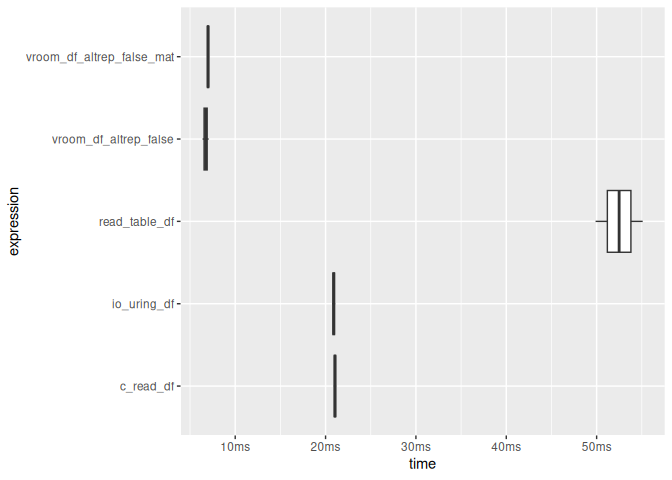
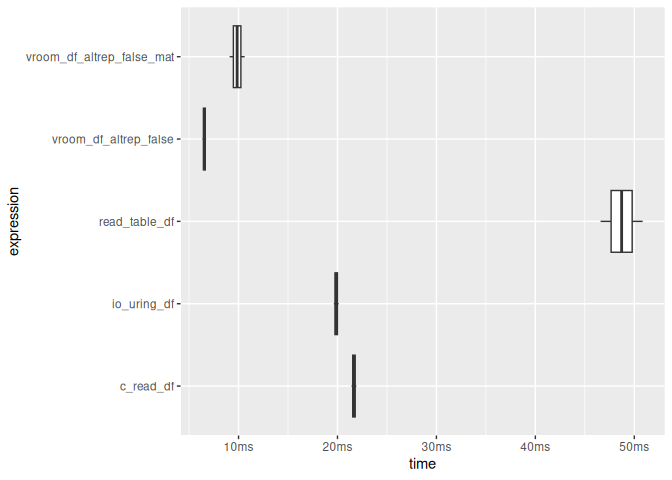
Deploying to gh-pages from @ sounkou-bioinfo/Rtinycc@1fb0428caab81305f7df1c9e4f8c3dab067b316e 🚀

diff --git a/index.html b/index.html
@@ -154,7 +154,7 @@
 <span><span class="fu"><a href="reference/tcc_read_bytes.html">tcc_read_bytes</a></span><span class="op">(</span><span class="va">ptr</span>, <span class="fl">5</span><span class="op">)</span></span>
 <span><span class="co">#&gt; [1] 68 65 6c 6c 6f</span></span>
 <span><span class="fu"><a href="reference/tcc_ptr_addr.html">tcc_ptr_addr</a></span><span class="op">(</span><span class="va">ptr</span>, hex <span class="op">=</span> <span class="cn">TRUE</span><span class="op">)</span></span>
-<span><span class="co">#&gt; [1] "0x5a2b55beb9e0"</span></span>
+<span><span class="co">#&gt; [1] "0x602d09972630"</span></span>
 <span><span class="fu"><a href="reference/tcc_ptr_is_null.html">tcc_ptr_is_null</a></span><span class="op">(</span><span class="va">ptr</span><span class="op">)</span></span>
 <span><span class="co">#&gt; [1] FALSE</span></span>
 <span><span class="fu"><a href="reference/tcc_free.html">tcc_free</a></span><span class="op">(</span><span class="va">ptr</span><span class="op">)</span></span>
@@ -175,11 +175,11 @@
 <code class="sourceCode R"><span><span class="va">ptr_ref</span> <span class="op">&lt;-</span> <span class="fu"><a href="reference/tcc_malloc.html">tcc_malloc</a></span><span class="op">(</span><span class="va">.Machine</span><span class="op">$</span><span class="va">sizeof.pointer</span> <span class="op"><a href="https://rdrr.io/r/base/Control.html" class="external-link">%||%</a></span> <span class="fl">8L</span><span class="op">)</span></span>
 <span><span class="va">target</span> <span class="op">&lt;-</span> <span class="fu"><a href="reference/tcc_malloc.html">tcc_malloc</a></span><span class="op">(</span><span class="fl">8</span><span class="op">)</span></span>
 <span><span class="fu"><a href="reference/tcc_ptr_set.html">tcc_ptr_set</a></span><span class="op">(</span><span class="va">ptr_ref</span>, <span class="va">target</span><span class="op">)</span></span>
-<span><span class="co">#&gt; &lt;pointer: 0x5a2b564e6ae0&gt;</span></span>
+<span><span class="co">#&gt; &lt;pointer: 0x602d0af9dcf0&gt;</span></span>
 <span><span class="fu"><a href="reference/tcc_data_ptr.html">tcc_data_ptr</a></span><span class="op">(</span><span class="va">ptr_ref</span><span class="op">)</span></span>
-<span><span class="co">#&gt; &lt;pointer: 0x5a2b56576070&gt;</span></span>
+<span><span class="co">#&gt; &lt;pointer: 0x602d0b45a720&gt;</span></span>
 <span><span class="fu"><a href="reference/tcc_ptr_set.html">tcc_ptr_set</a></span><span class="op">(</span><span class="va">ptr_ref</span>, <span class="fu"><a href="reference/tcc_null_ptr.html">tcc_null_ptr</a></span><span class="op">(</span><span class="op">)</span><span class="op">)</span></span>
-<span><span class="co">#&gt; &lt;pointer: 0x5a2b564e6ae0&gt;</span></span>
+<span><span class="co">#&gt; &lt;pointer: 0x602d0af9dcf0&gt;</span></span>
 <span><span class="fu"><a href="reference/tcc_free.html">tcc_free</a></span><span class="op">(</span><span class="va">target</span><span class="op">)</span></span>
 <span><span class="co">#&gt; NULL</span></span>
 <span><span class="fu"><a href="reference/tcc_free.html">tcc_free</a></span><span class="op">(</span><span class="va">ptr_ref</span><span class="op">)</span></span>
@@ -229,8 +229,8 @@
 <span><span class="co">#&gt; # A tibble: 2 × 6</span></span>
 <span><span class="co">#&gt;   expression      min   median `itr/sec` mem_alloc `gc/sec`</span></span>
 <span><span class="co">#&gt;   &lt;bch:expr&gt; &lt;bch:tm&gt; &lt;bch:tm&gt;     &lt;dbl&gt; &lt;bch:byt&gt;    &lt;dbl&gt;</span></span>
-<span><span class="co">#&gt; 1 Rtinycc      24.1ms   25.2ms      39.3   53.98KB     43.2</span></span>
-<span><span class="co">#&gt; 2 Rbuiltin    556.8µs  604.9µs    1566.     9.05KB     28.0</span></span>
+<span><span class="co">#&gt; 1 Rtinycc      24.1ms   26.2ms      29.6   53.98KB     31.5</span></span>
+<span><span class="co">#&gt; 2 Rbuiltin    548.1µs  588.8µs    1589.     9.05KB     29.9</span></span>
 <span></span>
 <span><span class="co"># For performance-sensitive code, move the loop into C and operate on arrays</span></span>
 <span><span class="co"># (one call over many elements instead of many scalar calls).</span></span>
@@ -261,8 +261,8 @@
 <span><span class="co">#&gt; # A tibble: 2 × 6</span></span>
 <span><span class="co">#&gt;   expression        min   median `itr/sec` mem_alloc `gc/sec`</span></span>
 <span><span class="co">#&gt;   &lt;bch:expr&gt;   &lt;bch:tm&gt; &lt;bch:tm&gt;     &lt;dbl&gt; &lt;bch:byt&gt;    &lt;dbl&gt;</span></span>
-<span><span class="co">#&gt; 1 Rtinycc_vec     178µs    272µs     3690.     391KB     26.0</span></span>
-<span><span class="co">#&gt; 2 Rbuiltin_vec    180µs    343µs     2927.     781KB     45.9</span></span></code></pre></div>
+<span><span class="co">#&gt; 1 Rtinycc_vec     176µs    255µs     3911.     391KB     28.1</span></span>
+<span><span class="co">#&gt; 2 Rbuiltin_vec    166µs    170µs     5791.     781KB     93.5</span></span></code></pre></div>
 </div>
 <div class="section level3">
 <h3 id="variadic-calls-eg-rprintf-style">Variadic calls (e.g. <code>Rprintf</code> style)<a class="anchor" aria-label="anchor" href="#variadic-calls-eg-rprintf-style"></a>
@@ -412,7 +412,7 @@
 <span></span>
 <span><span class="va">x</span> <span class="op">&lt;-</span> <span class="fu"><a href="https://rdrr.io/r/base/integer.html" class="external-link">as.integer</a></span><span class="op">(</span><span class="fl">1</span><span class="op">:</span><span class="fl">100</span><span class="op">)</span> <span class="co"># to avoid ALTREP</span></span>
 <span><span class="fu"><a href="https://rdrr.io/r/base/Internal.html" class="external-link">.Internal</a></span><span class="op">(</span><span class="fu">inspect</span><span class="op">(</span><span class="va">x</span><span class="op">)</span><span class="op">)</span></span>
-<span><span class="co">#&gt; @5a2b599aacd0 13 INTSXP g0c0 [REF(65535)]  1 : 100 (compact)</span></span>
+<span><span class="co">#&gt; @602d0dc280d8 13 INTSXP g0c0 [REF(65535)]  1 : 100 (compact)</span></span>
 <span><span class="va">ffi</span><span class="op">$</span><span class="fu">sum_array</span><span class="op">(</span><span class="va">x</span>, <span class="fu"><a href="https://rdrr.io/r/base/length.html" class="external-link">length</a></span><span class="op">(</span><span class="va">x</span><span class="op">)</span><span class="op">)</span></span>
 <span><span class="co">#&gt; [1] 5050</span></span>
 <span></span>
@@ -428,7 +428,7 @@
 <span><span class="co">#&gt; [1] 11</span></span>
 <span></span>
 <span><span class="fu"><a href="https://rdrr.io/r/base/Internal.html" class="external-link">.Internal</a></span><span class="op">(</span><span class="fu">inspect</span><span class="op">(</span><span class="va">x</span><span class="op">)</span><span class="op">)</span></span>
-<span><span class="co">#&gt; @5a2b599aacd0 13 INTSXP g0c0 [REF(65535)]  11 : 110 (expanded)</span></span></code></pre></div>
+<span><span class="co">#&gt; @602d0dc280d8 13 INTSXP g0c0 [REF(65535)]  11 : 110 (expanded)</span></span></code></pre></div>
 </div>
 </div>
 <div class="section level2">
@@ -455,15 +455,15 @@
 <span></span>
 <span><span class="va">p1</span> <span class="op">&lt;-</span> <span class="va">ffi</span><span class="op">$</span><span class="fu">struct_point_new</span><span class="op">(</span><span class="op">)</span></span>
 <span><span class="va">ffi</span><span class="op">$</span><span class="fu">struct_point_set_x</span><span class="op">(</span><span class="va">p1</span>, <span class="fl">0.0</span><span class="op">)</span></span>
-<span><span class="co">#&gt; &lt;pointer: 0x5a2b55a26740&gt;</span></span>
+<span><span class="co">#&gt; &lt;pointer: 0x602d0b9b7cb0&gt;</span></span>
 <span><span class="va">ffi</span><span class="op">$</span><span class="fu">struct_point_set_y</span><span class="op">(</span><span class="va">p1</span>, <span class="fl">0.0</span><span class="op">)</span></span>
-<span><span class="co">#&gt; &lt;pointer: 0x5a2b55a26740&gt;</span></span>
+<span><span class="co">#&gt; &lt;pointer: 0x602d0b9b7cb0&gt;</span></span>
 <span></span>
 <span><span class="va">p2</span> <span class="op">&lt;-</span> <span class="va">ffi</span><span class="op">$</span><span class="fu">struct_point_new</span><span class="op">(</span><span class="op">)</span></span>
 <span><span class="va">ffi</span><span class="op">$</span><span class="fu">struct_point_set_x</span><span class="op">(</span><span class="va">p2</span>, <span class="fl">3.0</span><span class="op">)</span></span>
-<span><span class="co">#&gt; &lt;pointer: 0x5a2b5a4d1200&gt;</span></span>
+<span><span class="co">#&gt; &lt;pointer: 0x602d0d679410&gt;</span></span>
 <span><span class="va">ffi</span><span class="op">$</span><span class="fu">struct_point_set_y</span><span class="op">(</span><span class="va">p2</span>, <span class="fl">4.0</span><span class="op">)</span></span>
-<span><span class="co">#&gt; &lt;pointer: 0x5a2b5a4d1200&gt;</span></span>
+<span><span class="co">#&gt; &lt;pointer: 0x602d0d679410&gt;</span></span>
 <span></span>
 <span><span class="va">ffi</span><span class="op">$</span><span class="fu">distance</span><span class="op">(</span><span class="va">p1</span>, <span class="va">p2</span><span class="op">)</span></span>
 <span><span class="co">#&gt; [1] 5</span></span>
@@ -505,9 +505,9 @@
 <span></span>
 <span><span class="va">s</span> <span class="op">&lt;-</span> <span class="va">ffi</span><span class="op">$</span><span class="fu">struct_flags_new</span><span class="op">(</span><span class="op">)</span></span>
 <span><span class="va">ffi</span><span class="op">$</span><span class="fu">struct_flags_set_active</span><span class="op">(</span><span class="va">s</span>, <span class="fl">1L</span><span class="op">)</span></span>
-<span><span class="co">#&gt; &lt;pointer: 0x5a2b58739ed0&gt;</span></span>
+<span><span class="co">#&gt; &lt;pointer: 0x602d0df2a8c0&gt;</span></span>
 <span><span class="va">ffi</span><span class="op">$</span><span class="fu">struct_flags_set_level</span><span class="op">(</span><span class="va">s</span>, <span class="fl">9L</span><span class="op">)</span></span>
-<span><span class="co">#&gt; &lt;pointer: 0x5a2b58739ed0&gt;</span></span>
+<span><span class="co">#&gt; &lt;pointer: 0x602d0df2a8c0&gt;</span></span>
 <span><span class="va">ffi</span><span class="op">$</span><span class="fu">struct_flags_get_active</span><span class="op">(</span><span class="va">s</span><span class="op">)</span></span>
 <span><span class="co">#&gt; [1] 1</span></span>
 <span><span class="va">ffi</span><span class="op">$</span><span class="fu">struct_flags_get_level</span><span class="op">(</span><span class="va">s</span><span class="op">)</span></span>
@@ -865,7 +865,7 @@
 <span>  <span class="fu"><a href="reference/tcc_compile.html">tcc_compile</a></span><span class="op">(</span><span class="op">)</span></span>
 <span></span>
 <span><span class="va">ffi</span><span class="op">$</span><span class="fu">struct_point_new</span><span class="op">(</span><span class="op">)</span></span>
-<span><span class="co">#&gt; &lt;pointer: 0x5a2b555bd170&gt;</span></span>
+<span><span class="co">#&gt; &lt;pointer: 0x602d09ec5be0&gt;</span></span>
 <span><span class="va">ffi</span><span class="op">$</span><span class="fu">enum_status_OK</span><span class="op">(</span><span class="op">)</span></span>
 <span><span class="co">#&gt; [1] 0</span></span>
 <span><span class="va">ffi</span><span class="op">$</span><span class="fu">global_global_counter_get</span><span class="op">(</span><span class="op">)</span></span>
@@ -980,11 +980,11 @@
 <span><span class="co">#&gt; # A tibble: 5 × 13</span></span>
 <span><span class="co">#&gt;   expression     min  median `itr/sec` mem_alloc `gc/sec` n_itr  n_gc total_time</span></span>
 <span><span class="co">#&gt;   &lt;bch:expr&gt; &lt;bch:t&gt; &lt;bch:t&gt;     &lt;dbl&gt; &lt;bch:byt&gt;    &lt;dbl&gt; &lt;int&gt; &lt;dbl&gt;   &lt;bch:tm&gt;</span></span>
-<span><span class="co">#&gt; 1 read_tabl… 49.88ms 49.88ms      20.0    6.33MB     20.0     1     1     49.9ms</span></span>
-<span><span class="co">#&gt; 2 vroom_df_…  6.38ms  6.72ms     149.     1.22MB      0       2     0     13.4ms</span></span>
-<span><span class="co">#&gt; 3 vroom_df_…  6.88ms  6.99ms     143.     2.44MB      0       2     0       14ms</span></span>
-<span><span class="co">#&gt; 4 c_read_df  20.91ms 21.04ms      47.5    1.22MB      0       2     0     42.1ms</span></span>
-<span><span class="co">#&gt; 5 io_uring_… 20.74ms  20.9ms      47.8    1.22MB      0       2     0     41.8ms</span></span>
+<span><span class="co">#&gt; 1 read_tabl… 46.59ms 46.59ms      21.5    6.33MB     21.5     1     1     46.6ms</span></span>
+<span><span class="co">#&gt; 2 vroom_df_…  6.36ms  6.54ms     153.     1.22MB      0       2     0     13.1ms</span></span>
+<span><span class="co">#&gt; 3 vroom_df_…   9.1ms  9.86ms     101.     2.44MB      0       2     0     19.7ms</span></span>
+<span><span class="co">#&gt; 4 c_read_df  21.42ms 21.66ms      46.2    1.22MB      0       2     0     43.3ms</span></span>
+<span><span class="co">#&gt; 5 io_uring_… 19.63ms 19.87ms      50.3    1.22MB      0       2     0     39.7ms</span></span>
 <span><span class="co">#&gt; # ℹ 4 more variables: result &lt;list&gt;, memory &lt;list&gt;, time &lt;list&gt;, gc &lt;list&gt;</span></span></code></pre></div>
 <p><img src="reference/figures/README-io_uring-demo-1.png" alt="" width="100%"></p>
 </div>
@@ -1028,11 +1028,11 @@
 <span><span class="va">o</span> <span class="op">&lt;-</span> <span class="va">ffi</span><span class="op">$</span><span class="fu">struct_outer_new</span><span class="op">(</span><span class="op">)</span></span>
 <span><span class="va">i</span> <span class="op">&lt;-</span> <span class="va">ffi</span><span class="op">$</span><span class="fu">struct_inner_new</span><span class="op">(</span><span class="op">)</span></span>
 <span><span class="va">ffi</span><span class="op">$</span><span class="fu">struct_inner_set_a</span><span class="op">(</span><span class="va">i</span>, <span class="fl">42L</span><span class="op">)</span></span>
-<span><span class="co">#&gt; &lt;pointer: 0x5a2b6f3ff710&gt;</span></span>
+<span><span class="co">#&gt; &lt;pointer: 0x602d0f6de2c0&gt;</span></span>
 <span></span>
 <span><span class="co"># Write the inner pointer into the outer struct</span></span>
 <span><span class="va">ffi</span><span class="op">$</span><span class="fu">struct_outer_in_addr</span><span class="op">(</span><span class="va">o</span><span class="op">)</span> <span class="op">|&gt;</span> <span class="fu"><a href="reference/tcc_ptr_set.html">tcc_ptr_set</a></span><span class="op">(</span><span class="va">i</span><span class="op">)</span></span>
-<span><span class="co">#&gt; &lt;pointer: 0x5a2b62cf6d90&gt;</span></span>
+<span><span class="co">#&gt; &lt;pointer: 0x602d12623a50&gt;</span></span>
 <span></span>
 <span><span class="co"># Read it back through indirection</span></span>
 <span><span class="va">ffi</span><span class="op">$</span><span class="fu">struct_outer_in_addr</span><span class="op">(</span><span class="va">o</span><span class="op">)</span> <span class="op">|&gt;</span></span>
@@ -1059,9 +1059,9 @@
 <span></span>
 <span><span class="va">b</span> <span class="op">&lt;-</span> <span class="va">ffi</span><span class="op">$</span><span class="fu">struct_buf_new</span><span class="op">(</span><span class="op">)</span></span>
 <span><span class="va">ffi</span><span class="op">$</span><span class="fu">struct_buf_set_data_elt</span><span class="op">(</span><span class="va">b</span>, <span class="fl">0L</span>, <span class="fl">0xCAL</span><span class="op">)</span></span>
-<span><span class="co">#&gt; &lt;pointer: 0x5a2b714d5b90&gt;</span></span>
+<span><span class="co">#&gt; &lt;pointer: 0x602d1140e660&gt;</span></span>
 <span><span class="va">ffi</span><span class="op">$</span><span class="fu">struct_buf_set_data_elt</span><span class="op">(</span><span class="va">b</span>, <span class="fl">1L</span>, <span class="fl">0xFEL</span><span class="op">)</span></span>
-<span><span class="co">#&gt; &lt;pointer: 0x5a2b714d5b90&gt;</span></span>
+<span><span class="co">#&gt; &lt;pointer: 0x602d1140e660&gt;</span></span>
 <span><span class="va">ffi</span><span class="op">$</span><span class="fu">struct_buf_get_data_elt</span><span class="op">(</span><span class="va">b</span>, <span class="fl">0L</span><span class="op">)</span></span>
 <span><span class="co">#&gt; [1] 202</span></span>
 <span><span class="va">ffi</span><span class="op">$</span><span class="fu">struct_buf_get_data_elt</span><span class="op">(</span><span class="va">b</span>, <span class="fl">1L</span><span class="op">)</span></span>
@@ -1149,7 +1149,6 @@
 <ul class="list-unstyled">
 <li><a href="https://github.com/sounkou-bioinfo/Rtinycc/actions/workflows/R-CMD-check.yaml" class="external-link"><img src="https://github.com/sounkou-bioinfo/Rtinycc/actions/workflows/R-CMD-check.yaml/badge.svg" alt="R-CMD-check"></a></li>
 <li><a href="https://sounkou-bioinfo.r-universe.dev/Rtinycc" class="external-link"><img src="https://sounkou-bioinfo.r-universe.dev/Rtinycc/badges/version" alt="Rtinycc status badge"></a></li>
-<li><a href="https://lifecycle.r-lib.org/articles/stages.html#experimental" class="external-link"><img src="https://img.shields.io/badge/lifecycle-experimental-orange.svg" alt="Lifecycle: experimental"></a></li>
 </ul>
 </div>
 

diff --git a/index.md b/index.md
@@ -178,7 +178,7 @@ tcc_read_cstring(ptr)
 tcc_read_bytes(ptr, 5)
 #> [1] 68 65 6c 6c 6f
 tcc_ptr_addr(ptr, hex = TRUE)
-#> [1] "0x5a2b55beb9e0"
+#> [1] "0x602d09972630"
 tcc_ptr_is_null(ptr)
 #> [1] FALSE
 tcc_free(ptr)
@@ -209,11 +209,11 @@ through output parameters.
 ptr_ref <- tcc_malloc(.Machine$sizeof.pointer %||% 8L)
 target <- tcc_malloc(8)
 tcc_ptr_set(ptr_ref, target)
-#> <pointer: 0x5a2b564e6ae0>
+#> <pointer: 0x602d0af9dcf0>
 tcc_data_ptr(ptr_ref)
-#> <pointer: 0x5a2b56576070>
+#> <pointer: 0x602d0b45a720>
 tcc_ptr_set(ptr_ref, tcc_null_ptr())
-#> <pointer: 0x5a2b564e6ae0>
+#> <pointer: 0x602d0af9dcf0>
 tcc_free(target)
 #> NULL
 tcc_free(ptr_ref)
@@ -286,8 +286,8 @@ timings_ffi_scalar
 #> # A tibble: 2 × 6
 #>   expression      min   median `itr/sec` mem_alloc `gc/sec`
 #>   <bch:expr> <bch:tm> <bch:tm>     <dbl> <bch:byt>    <dbl>
-#> 1 Rtinycc      24.1ms   25.2ms      39.3   53.98KB     43.2
-#> 2 Rbuiltin    556.8µs  604.9µs    1566.     9.05KB     28.0
+#> 1 Rtinycc      24.1ms   26.2ms      29.6   53.98KB     31.5
+#> 2 Rbuiltin    548.1µs  588.8µs    1589.     9.05KB     29.9
 
 # For performance-sensitive code, move the loop into C and operate on arrays
 # (one call over many elements instead of many scalar calls).
@@ -318,8 +318,8 @@ timings_ffi_vec
 #> # A tibble: 2 × 6
 #>   expression        min   median `itr/sec` mem_alloc `gc/sec`
 #>   <bch:expr>   <bch:tm> <bch:tm>     <dbl> <bch:byt>    <dbl>
-#> 1 Rtinycc_vec     178µs    272µs     3690.     391KB     26.0
-#> 2 Rbuiltin_vec    180µs    343µs     2927.     781KB     45.9
+#> 1 Rtinycc_vec     176µs    255µs     3911.     391KB     28.1
+#> 2 Rbuiltin_vec    166µs    170µs     5791.     781KB     93.5
 ```
 
 ### Variadic calls (e.g. `Rprintf` style)
@@ -485,7 +485,7 @@ ffi <- tcc_ffi() |>
 
 x <- as.integer(1:100) # to avoid ALTREP
 .Internal(inspect(x))
-#> @5a2b599aacd0 13 INTSXP g0c0 [REF(65535)]  1 : 100 (compact)
+#> @602d0dc280d8 13 INTSXP g0c0 [REF(65535)]  1 : 100 (compact)
 ffi$sum_array(x, length(x))
 #> [1] 5050
 
@@ -501,7 +501,7 @@ y[1]
 #> [1] 11
 
 .Internal(inspect(x))
-#> @5a2b599aacd0 13 INTSXP g0c0 [REF(65535)]  11 : 110 (expanded)
+#> @602d0dc280d8 13 INTSXP g0c0 [REF(65535)]  11 : 110 (expanded)
 ```
 
 ## Advanced FFI features
@@ -529,15 +529,15 @@ ffi <- tcc_ffi() |>
 
 p1 <- ffi$struct_point_new()
 ffi$struct_point_set_x(p1, 0.0)
-#> <pointer: 0x5a2b55a26740>
+#> <pointer: 0x602d0b9b7cb0>
 ffi$struct_point_set_y(p1, 0.0)
-#> <pointer: 0x5a2b55a26740>
+#> <pointer: 0x602d0b9b7cb0>
 
 p2 <- ffi$struct_point_new()
 ffi$struct_point_set_x(p2, 3.0)
-#> <pointer: 0x5a2b5a4d1200>
+#> <pointer: 0x602d0d679410>
 ffi$struct_point_set_y(p2, 4.0)
-#> <pointer: 0x5a2b5a4d1200>
+#> <pointer: 0x602d0d679410>
 
 ffi$distance(p1, p2)
 #> [1] 5
@@ -582,9 +582,9 @@ ffi <- tcc_ffi() |>
 
 s <- ffi$struct_flags_new()
 ffi$struct_flags_set_active(s, 1L)
-#> <pointer: 0x5a2b58739ed0>
+#> <pointer: 0x602d0df2a8c0>
 ffi$struct_flags_set_level(s, 9L)
-#> <pointer: 0x5a2b58739ed0>
+#> <pointer: 0x602d0df2a8c0>
 ffi$struct_flags_get_active(s)
 #> [1] 1
 ffi$struct_flags_get_level(s)
@@ -987,7 +987,7 @@ ffi <- tcc_ffi() |>
   tcc_compile()
 
 ffi$struct_point_new()
-#> <pointer: 0x5a2b555bd170>
+#> <pointer: 0x602d09ec5be0>
 ffi$enum_status_OK()
 #> [1] 0
 ffi$global_global_counter_get()
@@ -1104,11 +1104,11 @@ if (Sys.info()[["sysname"]] == "Linux") {
 #> # A tibble: 5 × 13
 #>   expression     min  median `itr/sec` mem_alloc `gc/sec` n_itr  n_gc total_time
 #>   <bch:expr> <bch:t> <bch:t>     <dbl> <bch:byt>    <dbl> <int> <dbl>   <bch:tm>
-#> 1 read_tabl… 49.88ms 49.88ms      20.0    6.33MB     20.0     1     1     49.9ms
-#> 2 vroom_df_…  6.38ms  6.72ms     149.     1.22MB      0       2     0     13.4ms
-#> 3 vroom_df_…  6.88ms  6.99ms     143.     2.44MB      0       2     0       14ms
-#> 4 c_read_df  20.91ms 21.04ms      47.5    1.22MB      0       2     0     42.1ms
-#> 5 io_uring_… 20.74ms  20.9ms      47.8    1.22MB      0       2     0     41.8ms
+#> 1 read_tabl… 46.59ms 46.59ms      21.5    6.33MB     21.5     1     1     46.6ms
+#> 2 vroom_df_…  6.36ms  6.54ms     153.     1.22MB      0       2     0     13.1ms
+#> 3 vroom_df_…   9.1ms  9.86ms     101.     2.44MB      0       2     0     19.7ms
+#> 4 c_read_df  21.42ms 21.66ms      46.2    1.22MB      0       2     0     43.3ms
+#> 5 io_uring_… 19.63ms 19.87ms      50.3    1.22MB      0       2     0     39.7ms
 #> # ℹ 4 more variables: result <list>, memory <list>, time <list>, gc <list>
 ```
 
@@ -1162,11 +1162,11 @@ ffi <- tcc_ffi() |>
 o <- ffi$struct_outer_new()
 i <- ffi$struct_inner_new()
 ffi$struct_inner_set_a(i, 42L)
-#> <pointer: 0x5a2b6f3ff710>
+#> <pointer: 0x602d0f6de2c0>
 
 # Write the inner pointer into the outer struct
 ffi$struct_outer_in_addr(o) |> tcc_ptr_set(i)
-#> <pointer: 0x5a2b62cf6d90>
+#> <pointer: 0x602d12623a50>
 
 # Read it back through indirection
 ffi$struct_outer_in_addr(o) |>
@@ -1197,9 +1197,9 @@ ffi <- tcc_ffi() |>
 
 b <- ffi$struct_buf_new()
 ffi$struct_buf_set_data_elt(b, 0L, 0xCAL)
-#> <pointer: 0x5a2b714d5b90>
+#> <pointer: 0x602d1140e660>
 ffi$struct_buf_set_data_elt(b, 1L, 0xFEL)
-#> <pointer: 0x5a2b714d5b90>
+#> <pointer: 0x602d1140e660>
 ffi$struct_buf_get_data_elt(b, 0L)
 #> [1] 202
 ffi$struct_buf_get_data_elt(b, 1L)